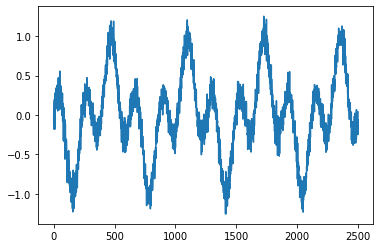
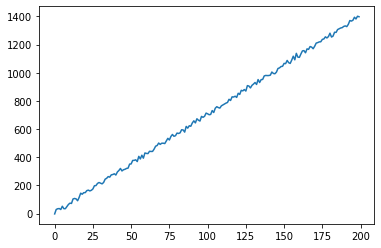
RNN_ch9 v01

diff --git a/Recurrent_neural_networks/RNN_ch9.md b/Recurrent_neural_networks/RNN_ch9.md
@@ -14,9 +14,14 @@ import matplotlib.pyplot as plt
 
 
 ```python
-x = torch.arange(0,2500);
-data = torch.cos(x * 0.02) * torch.sin(x * 0.01);
-data += torch.distributions.normal.Normal(0,0.1).sample((2500,));
+num_data = 200;
+
+x = torch.arange(0,num_data, dtype=torch.float32);
+
+B_0, B_1 = 5, 7;
+
+data = B_0 + B_1*x;
+data += torch.distributions.normal.Normal(0,10).sample((num_data,));
 ```
 
 
@@ -28,6 +33,23 @@ ax1.plot(x, data);
 
     
 ![png](../plots/RNN_fig1.png)
+    
+
+
+
+```python
+data_trans = data[1:] - data[:-1];
+```
+
+
+```python
+fig_t, ax_t = plt.subplots();
+ax_t.plot(x[0:num_data-1], data_trans);
+```
+
+
+    
+![png](../plots/RNN_fig2.png)
     
 
 
@@ -59,10 +81,10 @@ def XYdataLoader(input_data_1d, sequence_len, batch_size):
 
 
 ```python
-batch_size = 100;
-sequence_len = 600;
+batch_size = 19;
+sequence_len = 9;
 
-dataset = XYdataLoader(data, sequence_len, batch_size);
+dataset = XYdataLoader(data_trans, sequence_len, batch_size);
 ```
 
 ***
@@ -187,28 +209,36 @@ def trainRNN(rnn, dataset, loss, optimizer, num_epochs, batch_size, alpha=1):
 
 
 ```python
-rnn = RNN(batch_size, 8, 1);
-optimizer = torch.optim.SGD(rnn.parameters(), lr=0.03);
+rnn = RNN(batch_size, 32, 1);
 ```
 
 
 ```python
-rnn_trained = trainRNN(rnn, dataset, loss, optimizer, 250, batch_size);
+optimizer = torch.optim.SGD(rnn.parameters(), lr=0.01);
 ```
 
-    Training loss 0.45660316944122314
+
+```python
+rnn_trained = trainRNN(rnn, dataset, loss, optimizer, 1000, batch_size);
+```
+
+    Training loss 237.73231506347656
     Epoch 0
-    Training loss 0.3369460999965668
+    Training loss 271.89312744140625
     Epoch 1
-    Training loss 0.3097529113292694
+    Training loss 225.37205505371094
     Epoch 2
+    Training loss 234.2942657470703
+    Epoch 3
     ...
-    Training loss 0.22583262622356415
-    Epoch 247
-    Training loss 0.2208634614944458
-    Epoch 248
-    Training loss 0.2216733694076538
-    Epoch 249
+    Training loss 115.64496612548828
+    Epoch 996
+    Training loss 123.0284652709961
+    Epoch 997
+    Training loss 133.09402465820312
+    Epoch 998
+    Training loss 118.36428833007812
+    Epoch 999
 
 
 ***
@@ -243,19 +273,34 @@ Y_hat.shape
 
 
 
-    torch.Size([1900])
+    torch.Size([190])
 
 
 
 
 ```python
 fig2, ax2 = plt.subplots();
-ax2.plot(x[sequence_len:2500], data[sequence_len:2500]);
-ax2.plot(torch.arange(sequence_len,2500), Y_hat.detach().numpy(), color="r");
+ax2.plot(x[0:num_data-1], data_trans);
+ax2.plot(torch.arange(sequence_len,num_data-1), Y_hat.detach().numpy(), color="r");
 ```
 
 
     
-![png](../plots/RNN_fig2.png)
+![png](../plots/RNN_fig3.png)
+    
+
+
+
+```python
+data_approx = Y_hat + data[sequence_len:-1];
+
+fig3, ax3 = plt.subplots();
+ax3.plot(x, data);
+ax3.plot(torch.arange(sequence_len,num_data-1), data_approx.detach().numpy(), color="r");
+```
+
+
+    
+![png](../plots/RNN_fig4.png)
     
 
